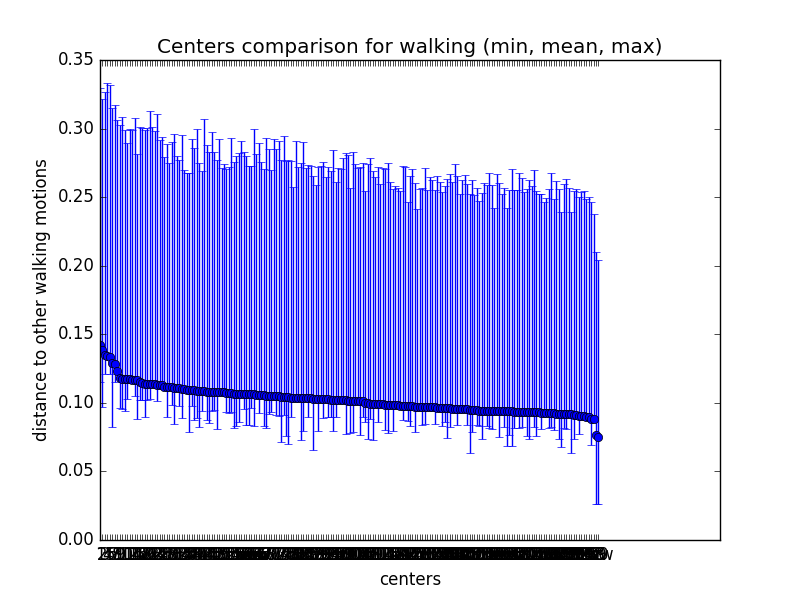
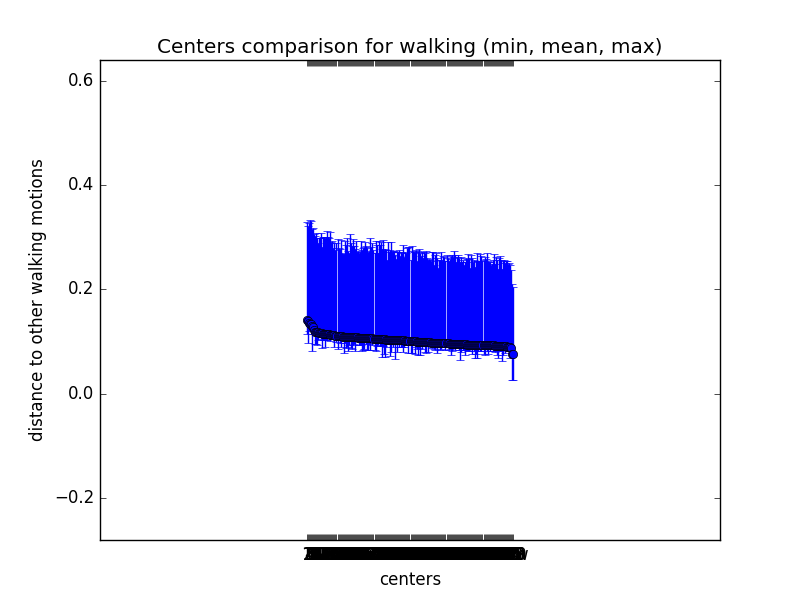
fix

Changed region(s): [[0.0312, 0.09, 0.75, 0.84], [0.0625, 0.87, 0.7812, 0.96], [0.0625, 0.75, 0.125, 0.84]]

diff --git a/RNN/utils/association_evaluation.py b/RNN/utils/association_evaluation.py
@@ -264,12 +264,12 @@ def plot_results(directory, model_name, action_type):
 		x = range(len(data['labels']))
 		y = data['mean']
 		yerr = [data['min'], data['max']]
-		print len(x), len(y)
 		plt.errorbar(x, y, yerr=yerr, fmt='o')
-		plt.xticks(x, [data['labels'][str(i)] for i in range(len(x))])
+		plt.xticks(x, [data['labels'][str(i)] for i in range(len(x))], rotation='vertical')
 		plt.xlabel('category')
 		plt.ylabel('closest distance')
-		plt.title('Distance from interpolated %s motion to motions of different categories (min, mean, max)'%action_type)
+		plt.margins(1)
+		plt.title('Distance to interpolated %s motion (min, mean, max)'%action_type)
 		plt.savefig(directory+'eval_generation-'+model_name+'.png')
 		plt.close()
 
@@ -279,10 +279,12 @@ def plot_results(directory, model_name, action_type):
 		x = range(len(data['mean']))
 		idx = np.flip(np.argsort(data['mean'][:-2]), 0)
 		y = [data['mean'][i] for i in idx]+[data['mean'][-1], data['mean'][-2]]
+		print len(x), len(y)
 		yerr = [[data['min'][i] for i in idx]+[data['min'][-1], data['min'][-2]],
 				[data['max'][i] for i in idx]+[data['max'][-1], data['max'][-2]]]
 		plt.errorbar(x, y, yerr=yerr, fmt='o')
 		plt.xticks(x, map(str, range(1, len(x)-1)) + ['z', 'raw'])
+		plt.margins(1)
 		plt.xlabel('centers')
 		plt.ylabel('distance to other %s motions'%action_type)
 		plt.title('Centers comparison for %s (min, mean, max)'%action_type)
